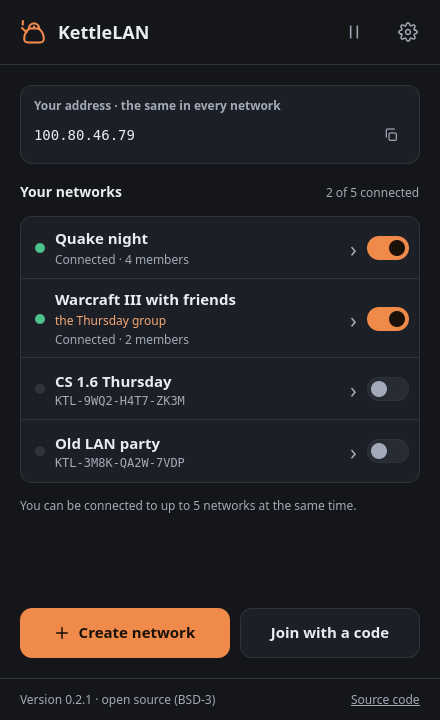
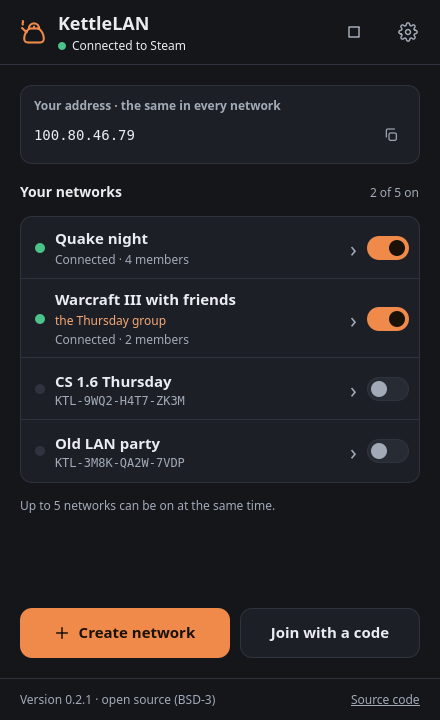
GUI: Steam connection state under the title

diff --git a/src/gui/qml/StartPage.qml b/src/gui/qml/StartPage.qml
@@ -23,7 +23,40 @@ Item {
             Layout.bottomMargin: 10
             spacing: 10
             SvgIcon { name: "kettle"; size: 28; color: Theme.accent }
-            Text { textFormat: Text.PlainText; text: "KettleLAN"; color: Theme.text; font.pixelSize: 18; font.weight: Font.Bold; Layout.fillWidth: true }
+            ColumnLayout {
+                Layout.fillWidth: true
+                spacing: 1
+                Text { textFormat: Text.PlainText; text: "KettleLAN"; color: Theme.text; font.pixelSize: 18; font.weight: Font.Bold; Layout.fillWidth: true }
+                // whether KettleLAN is connected to Steam (▶ / ⏹)
+                RowLayout {
+                    id: steamState
+                    spacing: 6
+                    readonly property bool connected: Backend.steamEnabled && Backend.status === "ready"
+                    readonly property bool connecting: Backend.steamEnabled && !connected
+                    Rectangle {
+                        width: 8
+                        height: 8
+                        radius: 4
+                        color: steamState.connected ? Theme.ok : steamState.connecting ? Theme.accent : "transparent"
+                        border.width: steamState.connected || steamState.connecting ? 0 : 1
+                        border.color: Theme.muted
+                        SequentialAnimation on opacity {
+                            running: steamState.connecting
+                            loops: Animation.Infinite
+                            NumberAnimation { to: 0.3; duration: 500 }
+                            NumberAnimation { to: 1; duration: 500 }
+                        }
+                    }
+                    Text {
+                        textFormat: Text.PlainText
+                        font.pixelSize: 12
+                        color: steamState.connected ? Theme.text : Theme.muted
+                        text: steamState.connected ? qsTr("Connected to Steam")
+                            : steamState.connecting ? qsTr("Connecting to Steam…")
+                            : qsTr("Not connected to Steam")
+                    }
+                }
+            }
             // ▶ connect to Steam / ⏹ disconnect – the network switches are separate and stay as they are
             IconButton {
                 iconName: Backend.steamEnabled ? "stop" : "play"

diff --git a/src/gui/backend.cpp b/src/gui/backend.cpp
@@ -753,6 +753,7 @@ void Backend::loadDemo() {
             networkOpen_ = true;
         }
     }
+    steamEnabled_ = true; // the screenshots show a connected KettleLAN
     showOpenNetwork();
     rebuildNetworks();
 }

diff --git a/CHANGELOG.md b/CHANGELOG.md
@@ -21,6 +21,7 @@ Before tagging a release add a `## [x.y.z] – date` section (see [docs/RELEASIN
 - Steam: ▶ / ⏹ button connects to and disconnects from Steam; the network switches are separate and stay as they are
 - Steam: everything that talks to Steam runs in a separate background process (kettlelan-steam) – with ⏹ Steam no longer shows "Spacewar"
 - Steam: the ▶ / ⏹ state is remembered; a first start does not connect to Steam
+- GUI: "Connected to Steam" / "Not connected to Steam" under the title
 - GUI: networks show "Connecting…" on the list while KettleLAN connects to Steam – no separate screen in between
 - GUI: messages as system notifications instead of pop-ups in the window, none about a network's state (the list shows it); errors appear in the window when notifications are off
 - GUI: "Copied" shown where you clicked (✓ on the copy button, "Copied" in the members list, on the Invite button)
